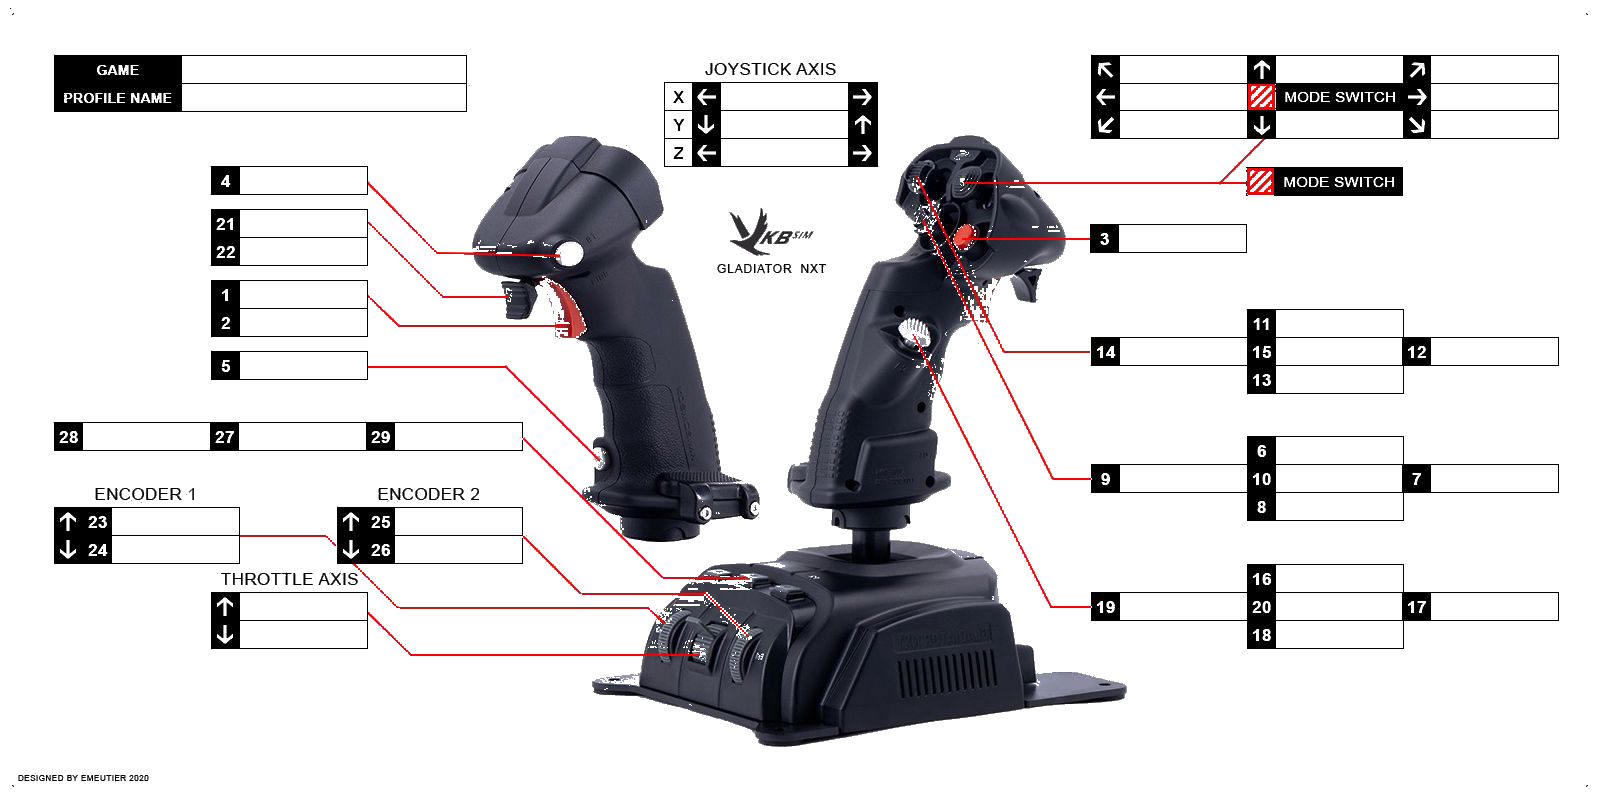
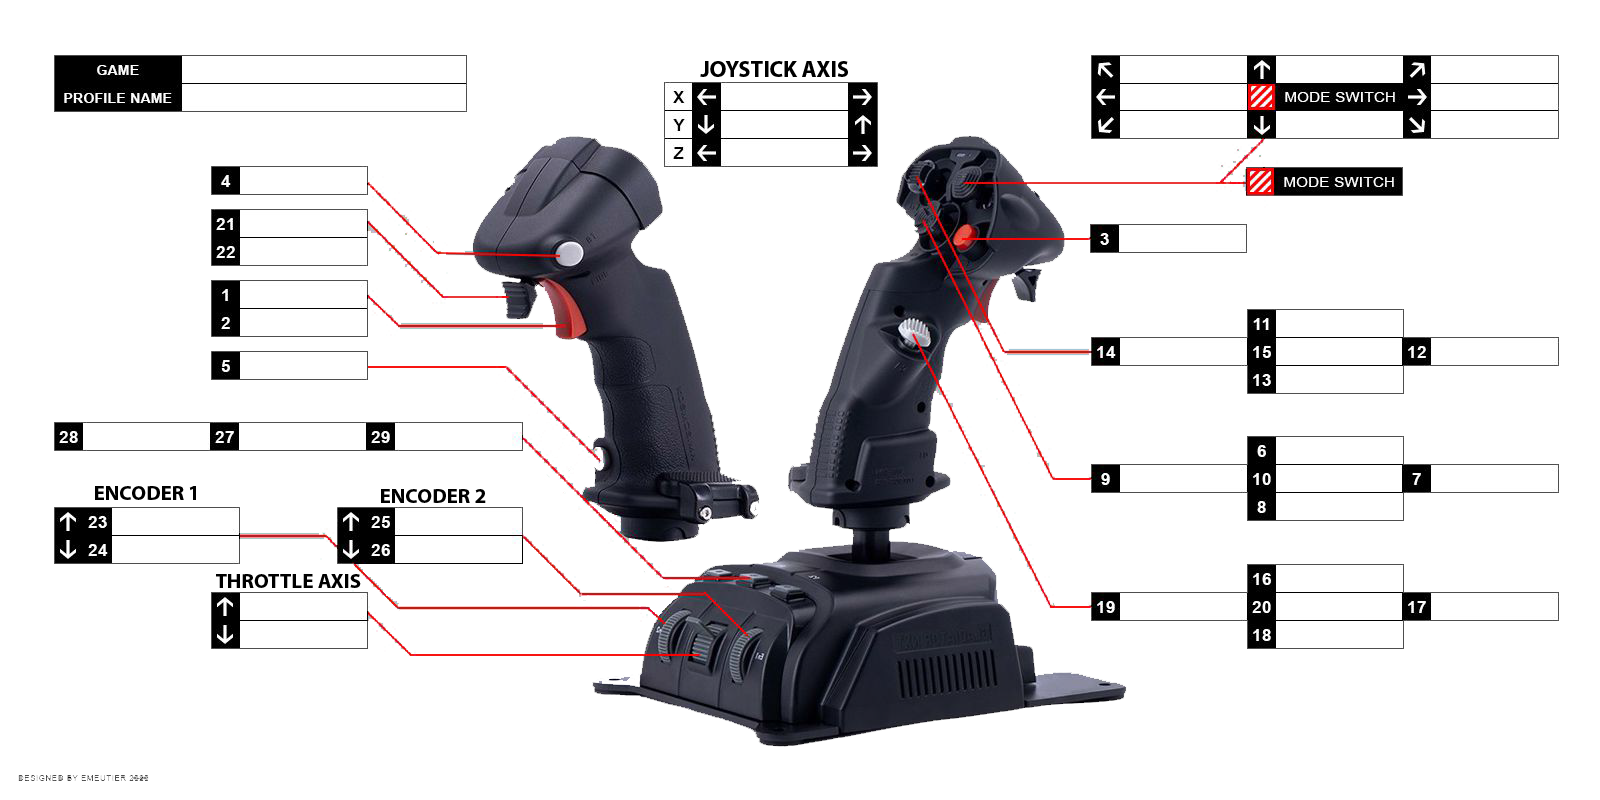
v0.7.20: VKB NXT PREM L+R — neue Template-Bilder + Feldpositionen neu kalibriert

diff --git a/index.html b/index.html
@@ -806,7 +806,7 @@
 <div id="statusbar">STATUS: <span id="statmsg">Bereit</span> &nbsp;|&nbsp; Geändert: <span id="changed-count">0</span> &nbsp;|&nbsp; Version: <span id="app-version"></span> &nbsp;|&nbsp; Update: <span id="update-status">prüfen...</span></div>
 
 <script>
-const APP_VERSION = 'v0.7.19';
+const APP_VERSION = 'v0.7.20';
 const UPDATE_API_URL = 'https://api.github.com/repos/Xharig-1/Joystick-Map/releases/latest';
 const SC_VERSION_API_URL = 'https://api.star-citizen.wiki/api/v2/game-versions';
 const MODES = [
@@ -898,110 +898,110 @@ const FIELDS_L = [{"name":"Titel","value":"Constellation Alpha L","left":109.7,"
 const FIELDS_R = [{"name":"Titel","value":"Constellation Alpha R","left":109.7,"top":22.13,"width":169.4,"height":33.6},{"name":"Untertitel","value":"Star Citizen","left":109.7,"top":55.73,"width":169.4,"height":19.2},{"name":"12","value":"Lead/Lag PIPs","left":361.8,"top":38.5,"width":142,"height":24.2},{"name":"13","value":"Bergung: Structural","left":536.8,"top":72.9,"width":142,"height":24.2},{"name":"5","value":"Bombenabwurf (halten)","left":236.8,"top":89.6,"width":142,"height":24},{"name":"14","value":"Bergung: Auflösen","left":536.8,"top":98,"width":142,"height":24.2},{"name":"rX","value":"","left":236.8,"top":114.7,"width":142,"height":24},{"name":"15","value":"Bergbau: Abwerfen\nBergung: Rechts","left":536.8,"top":123.2,"width":142,"height":24.2},{"name":"rY","value":"","left":236.8,"top":139.7,"width":142,"height":24.2},{"name":"16","value":"Bergung: Zerbrechen","left":536.8,"top":148.4,"width":142,"height":24.2},{"name":"17","value":"Bergung: Links","left":536.8,"top":173.5,"width":142,"height":24.2},{"name":"7","value":"QID festlegen","left":133,"top":177.7,"width":142,"height":24.2},{"name":"8","value":"Q-Snare QIDS","left":133,"top":202.8,"width":142,"height":24.2},{"name":"18","value":"Radar Flare","left":583.2,"top":207.7,"width":142,"height":24.2},{"name":"9","value":"Bergung: Structural","left":133,"top":228,"width":142,"height":24.2},{"name":"19","value":"IR Flare Panik","left":583.2,"top":232.9,"width":142,"height":24.2},{"name":"10","value":"Q-Störer QEDS","left":133,"top":253.2,"width":142,"height":24.2},{"name":"20","value":"Bergung: Zerbrechen","left":583.2,"top":258,"width":142,"height":24.2},{"name":"11","value":"EMP","left":133,"top":278.4,"width":142,"height":24.2},{"name":"6","value":"","left":558.4,"top":295.5,"width":142,"height":24.2},{"name":"25","value":"Bergbau Laser Typ\nNächster Raketentyp\nRaketentyp wechseln","left":94.6,"top":318.3,"width":142,"height":24.2},{"name":"1","value":"SCM Modus","left":549,"top":332.1,"width":142,"height":24.2},{"name":"26","value":"Raketen erhöhen","left":94.6,"top":343.5,"width":142,"height":24},{"name":"2","value":"NAV Modus","left":549,"top":357.3,"width":142,"height":24.2},{"name":"27","value":"ADS max. Zoom (halten)\nADS (Toggle)","left":94.6,"top":368.6,"width":142,"height":24},{"name":"3","value":"Quantensprung\nQuantenantrieb\nScannen (halten)\nBergbau Laser (halten)\nBergung: Fokus\nSchuss / Primärwaffe\nRakete abfeuern","left":513.7,"top":392.6,"width":142,"height":24.2},{"name":"28","value":"Raketen verringern","left":94.6,"top":393.6,"width":142,"height":24.2},{"name":"4","value":"Quantensprung\nQuantenantrieb\nScannen (halten)\nBergbau Laser (halten)\nBergung: Fokus\nSchuss / Primärwaffe\nRakete abfeuern","left":513.7,"top":417.8,"width":142,"height":24.2},{"name":"29","value":"Raketen zurücksetzen","left":94.6,"top":418.7,"width":142,"height":24.2},{"name":"21","value":"Scan Modus","left":131.5,"top":459.4,"width":142,"height":24},{"name":"30","value":"","left":513.7,"top":462.6,"width":142,"height":24.2},{"name":"22","value":"Scan Fokus -\nBergung Schmaler\nKonvergenz -\nBombenreichweite -","left":131.5,"top":484.6,"width":142,"height":24},{"name":"x","value":"","left":471.4,"top":504.2,"width":142,"height":24.2},{"name":"23","value":"Scan Fokus -\nBergung Schmaler\nKonvergenz -\nBombenreichweite -","left":131.5,"top":509.5,"width":142,"height":23.7},{"name":"Y","value":"","left":471.4,"top":529.4,"width":142,"height":24},{"name":"24","value":"Scan Fokus +\nBergung Breiter\nKonvergenz +\nBombenreichweite +","left":131.5,"top":534,"width":142,"height":24.2},{"name":"Z","value":"","left":471.4,"top":554.3,"width":142,"height":24.2},{"name":"31 S0","value":"Schleudersitz\nSelbstzerstörung","left":256.7,"top":569.5,"width":142,"height":24.2},{"name":"Anmerkung 1","value":"","left":688.3,"top":26.73,"width":140.9,"height":74.4},{"name":"Anmerkung 2","value":"","left":689.25,"top":108.33,"width":140.65,"height":74.4},{"name":"Anmerkung 3","value":"","left":682.3,"top":422.73,"width":140.65,"height":74.4},{"name":"Anmerkung 4","value":"","left":683.75,"top":503.58,"width":140.9,"height":74.4}];
 const FIELDS_VKB_NXT_L = [
   // 8-Wege Hat / Mode Switch (oben rechts im Bild)
-  {"name":"hat1_upleft",   "value":"","left":1120,"top":56, "width":127,"height":27},
-  {"name":"hat1_up",       "value":"","left":1276,"top":56, "width":127,"height":27},
-  {"name":"hat1_upright",  "value":"","left":1431,"top":56, "width":127,"height":27},
-  {"name":"hat1_left",     "value":"","left":1120,"top":84, "width":127,"height":26},
-  {"name":"hat1_right",    "value":"","left":1431,"top":84, "width":127,"height":26},
-  {"name":"hat1_downleft", "value":"","left":1120,"top":111,"width":127,"height":27},
-  {"name":"hat1_down",     "value":"","left":1276,"top":111,"width":127,"height":27},
-  {"name":"hat1_downright","value":"","left":1431,"top":111,"width":127,"height":27},
+  {"name":"hat1_upleft",   "value":"","left":1120,"top":56, "width":126,"height":26},
+  {"name":"hat1_up",       "value":"","left":1276,"top":56, "width":126,"height":26},
+  {"name":"hat1_upright",  "value":"","left":1431,"top":56, "width":126,"height":26},
+  {"name":"hat1_left",     "value":"","left":1120,"top":84, "width":126,"height":25},
+  {"name":"hat1_right",    "value":"","left":1431,"top":84, "width":126,"height":25},
+  {"name":"hat1_downleft", "value":"","left":1120,"top":111,"width":126,"height":26},
+  {"name":"hat1_down",     "value":"","left":1276,"top":111,"width":126,"height":26},
+  {"name":"hat1_downright","value":"","left":1431,"top":111,"width":126,"height":26},
   // Joystick-Achsen (Mitte oben)
-  {"name":"x",  "value":"","left":722,"top":83, "width":126,"height":27},
-  {"name":"y",  "value":"","left":721,"top":111,"width":127,"height":27},
-  {"name":"z",  "value":"","left":727,"top":139,"width":121,"height":27},
+  {"name":"x",  "value":"","left":721,"top":83, "width":126,"height":26},
+  {"name":"y",  "value":"","left":721,"top":111,"width":126,"height":26},
+  {"name":"z",  "value":"","left":721,"top":139,"width":126,"height":26},
   // Linke Spalte (Buttons 1, 2, 4, 5, 21, 22, 27, 28, 29)
-  {"name":"4",  "value":"","left":240,"top":167,"width":127,"height":27},
-  {"name":"21", "value":"","left":240,"top":210,"width":126,"height":27},
-  {"name":"22", "value":"","left":240,"top":238,"width":127,"height":27},
-  {"name":"1",  "value":"","left":240,"top":281,"width":126,"height":27},
-  {"name":"2",  "value":"","left":240,"top":309,"width":127,"height":27},
-  {"name":"5",  "value":"","left":240,"top":352,"width":127,"height":27},
-  {"name":"28", "value":"","left":83, "top":423,"width":127,"height":27},
-  {"name":"27", "value":"","left":239,"top":423,"width":127,"height":27},
-  {"name":"29", "value":"","left":395,"top":423,"width":126,"height":27},
+  {"name":"4",  "value":"","left":240,"top":167,"width":126,"height":26},
+  {"name":"21", "value":"","left":240,"top":210,"width":126,"height":26},
+  {"name":"22", "value":"","left":240,"top":238,"width":126,"height":26},
+  {"name":"1",  "value":"","left":240,"top":281,"width":126,"height":26},
+  {"name":"2",  "value":"","left":240,"top":309,"width":126,"height":26},
+  {"name":"5",  "value":"","left":240,"top":352,"width":126,"height":26},
+  {"name":"28", "value":"","left":83, "top":423,"width":126,"height":26},
+  {"name":"27", "value":"","left":239,"top":423,"width":126,"height":26},
+  {"name":"29", "value":"","left":395,"top":423,"width":126,"height":26},
   // Encoder-Buttons
-  {"name":"23", "value":"","left":112,"top":508,"width":127,"height":27},
-  {"name":"24", "value":"","left":112,"top":536,"width":127,"height":27},
-  {"name":"25", "value":"","left":399,"top":508,"width":122,"height":27},
-  {"name":"26", "value":"","left":395,"top":536,"width":125,"height":27},
+  {"name":"23", "value":"","left":112,"top":508,"width":126,"height":26},
+  {"name":"24", "value":"","left":112,"top":536,"width":126,"height":26},
+  {"name":"25", "value":"","left":395,"top":508,"width":126,"height":26},
+  {"name":"26", "value":"","left":395,"top":536,"width":126,"height":26},
   // Drosselachse (links unten)
-  {"name":"throttle_fwd",  "value":"","left":240,"top":593,"width":126,"height":27},
-  {"name":"throttle_back", "value":"","left":240,"top":621,"width":127,"height":27},
+  {"name":"throttle_fwd",  "value":"","left":240,"top":593,"width":126,"height":26},
+  {"name":"throttle_back", "value":"","left":240,"top":621,"width":126,"height":26},
   // Rechte Seite - Button 3
-  {"name":"3",  "value":"","left":1119,"top":225,"width":126,"height":27},
+  {"name":"3",  "value":"","left":1119,"top":225,"width":126,"height":26},
   // Rechte Seite - 5-Wege-Ministick 1 (Buttons 11-15)
-  {"name":"15", "value":"","left":1277,"top":310,"width":126,"height":27},
-  {"name":"14", "value":"","left":1120,"top":338,"width":127,"height":27},
-  {"name":"11", "value":"","left":1276,"top":338,"width":125,"height":27},
-  {"name":"12", "value":"","left":1431,"top":338,"width":127,"height":27},
-  {"name":"13", "value":"","left":1276,"top":366,"width":127,"height":27},
+  {"name":"15", "value":"","left":1276,"top":310,"width":126,"height":26},
+  {"name":"14", "value":"","left":1120,"top":338,"width":126,"height":26},
+  {"name":"11", "value":"","left":1276,"top":338,"width":125,"height":26},
+  {"name":"12", "value":"","left":1431,"top":338,"width":126,"height":26},
+  {"name":"13", "value":"","left":1276,"top":366,"width":126,"height":26},
   // Rechte Seite - 5-Wege-Ministick 2 (Buttons 6-10)
-  {"name":"6",  "value":"","left":1276,"top":437,"width":127,"height":27},
-  {"name":"9",  "value":"","left":1120,"top":465,"width":126,"height":27},
-  {"name":"10", "value":"","left":1276,"top":465,"width":126,"height":27},
-  {"name":"7",  "value":"","left":1431,"top":465,"width":126,"height":27},
-  {"name":"8",  "value":"","left":1276,"top":493,"width":127,"height":27},
+  {"name":"6",  "value":"","left":1276,"top":437,"width":126,"height":26},
+  {"name":"9",  "value":"","left":1120,"top":465,"width":126,"height":26},
+  {"name":"10", "value":"","left":1276,"top":465,"width":125,"height":26},
+  {"name":"7",  "value":"","left":1431,"top":465,"width":126,"height":26},
+  {"name":"8",  "value":"","left":1276,"top":493,"width":126,"height":26},
   // Rechte Seite - 5-Wege-Ministick 3 (Buttons 16-20)
-  {"name":"16", "value":"","left":1276,"top":565,"width":127,"height":27},
-  {"name":"19", "value":"","left":1120,"top":593,"width":126,"height":27},
-  {"name":"20", "value":"","left":1276,"top":593,"width":126,"height":27},
-  {"name":"17", "value":"","left":1431,"top":593,"width":126,"height":27},
-  {"name":"18", "value":"","left":1276,"top":621,"width":127,"height":27}
+  {"name":"16", "value":"","left":1276,"top":565,"width":126,"height":26},
+  {"name":"19", "value":"","left":1120,"top":593,"width":126,"height":26},
+  {"name":"20", "value":"","left":1276,"top":593,"width":125,"height":26},
+  {"name":"17", "value":"","left":1431,"top":593,"width":126,"height":26},
+  {"name":"18", "value":"","left":1276,"top":621,"width":126,"height":26}
 ];
 const FIELDS_VKB_NXT_R = [
   // Hat / Mode Switch (oben links)
-  {"name":"hat1_upleft",   "value":"","left":70,  "top":56, "width":127,"height":27},
-  {"name":"hat1_up",       "value":"","left":226, "top":56, "width":127,"height":27},
-  {"name":"hat1_upright",  "value":"","left":381, "top":56, "width":127,"height":27},
-  {"name":"hat1_left",     "value":"","left":70,  "top":84, "width":127,"height":26},
-  {"name":"hat1_right",    "value":"","left":381, "top":84, "width":127,"height":26},
-  {"name":"hat1_downleft", "value":"","left":70,  "top":111,"width":127,"height":27},
-  {"name":"hat1_down",     "value":"","left":226, "top":111,"width":127,"height":27},
-  {"name":"hat1_downright","value":"","left":381, "top":111,"width":127,"height":27},
+  {"name":"hat1_upleft",   "value":"","left":70,  "top":56, "width":126,"height":26},
+  {"name":"hat1_up",       "value":"","left":226, "top":56, "width":126,"height":26},
+  {"name":"hat1_upright",  "value":"","left":381, "top":56, "width":126,"height":26},
+  {"name":"hat1_left",     "value":"","left":70,  "top":84, "width":126,"height":25},
+  {"name":"hat1_right",    "value":"","left":381, "top":84, "width":126,"height":25},
+  {"name":"hat1_downleft", "value":"","left":70,  "top":111,"width":126,"height":26},
+  {"name":"hat1_down",     "value":"","left":226, "top":111,"width":126,"height":26},
+  {"name":"hat1_downright","value":"","left":381, "top":111,"width":126,"height":26},
   // Joystick-Achsen (Mitte oben)
-  {"name":"x",  "value":"","left":779,"top":83, "width":127,"height":27},
-  {"name":"y",  "value":"","left":779,"top":111,"width":127,"height":27},
-  {"name":"z",  "value":"","left":779,"top":139,"width":127,"height":27},
+  {"name":"x",  "value":"","left":779,"top":83, "width":126,"height":26},
+  {"name":"y",  "value":"","left":779,"top":111,"width":126,"height":26},
+  {"name":"z",  "value":"","left":779,"top":139,"width":126,"height":26},
   // Button 3
-  {"name":"3",  "value":"","left":382,"top":225,"width":127,"height":27},
+  {"name":"3",  "value":"","left":382,"top":225,"width":126,"height":26},
   // 5-Wege-Ministick 1 (Buttons 11–15)
-  {"name":"15", "value":"","left":226,"top":310,"width":127,"height":27},
-  {"name":"14", "value":"","left":70, "top":338,"width":127,"height":27},
-  {"name":"11", "value":"","left":226,"top":338,"width":126,"height":27},
-  {"name":"12", "value":"","left":381,"top":338,"width":127,"height":27},
-  {"name":"13", "value":"","left":226,"top":366,"width":127,"height":27},
+  {"name":"15", "value":"","left":226,"top":310,"width":126,"height":26},
+  {"name":"14", "value":"","left":70, "top":338,"width":126,"height":26},
+  {"name":"11", "value":"","left":226,"top":338,"width":125,"height":26},
+  {"name":"12", "value":"","left":381,"top":338,"width":126,"height":26},
+  {"name":"13", "value":"","left":226,"top":366,"width":126,"height":26},
   // 5-Wege-Ministick 2 (Buttons 6–10)
-  {"name":"6",  "value":"","left":226,"top":437,"width":127,"height":27},
-  {"name":"9",  "value":"","left":70, "top":465,"width":127,"height":27},
-  {"name":"10", "value":"","left":226,"top":465,"width":126,"height":27},
-  {"name":"7",  "value":"","left":381,"top":465,"width":127,"height":27},
-  {"name":"8",  "value":"","left":226,"top":493,"width":127,"height":27},
+  {"name":"6",  "value":"","left":226,"top":437,"width":126,"height":26},
+  {"name":"9",  "value":"","left":70, "top":465,"width":126,"height":26},
+  {"name":"10", "value":"","left":226,"top":465,"width":125,"height":26},
+  {"name":"7",  "value":"","left":381,"top":465,"width":126,"height":26},
+  {"name":"8",  "value":"","left":226,"top":493,"width":126,"height":26},
   // 5-Wege-Ministick 3 (Buttons 16–20)
-  {"name":"16", "value":"","left":226,"top":565,"width":127,"height":27},
-  {"name":"19", "value":"","left":70, "top":593,"width":127,"height":27},
-  {"name":"20", "value":"","left":226,"top":593,"width":126,"height":27},
-  {"name":"17", "value":"","left":381,"top":593,"width":127,"height":27},
-  {"name":"18", "value":"","left":226,"top":621,"width":127,"height":27},
+  {"name":"16", "value":"","left":226,"top":565,"width":126,"height":26},
+  {"name":"19", "value":"","left":70, "top":593,"width":126,"height":26},
+  {"name":"20", "value":"","left":226,"top":593,"width":125,"height":26},
+  {"name":"17", "value":"","left":381,"top":593,"width":126,"height":26},
+  {"name":"18", "value":"","left":226,"top":621,"width":126,"height":26},
   // Rechte Spalte (Buttons 1, 2, 4, 5, 21, 22)
-  {"name":"4",  "value":"","left":1261,"top":167,"width":127,"height":27},
-  {"name":"21", "value":"","left":1261,"top":210,"width":127,"height":27},
-  {"name":"22", "value":"","left":1261,"top":238,"width":127,"height":27},
-  {"name":"1",  "value":"","left":1261,"top":281,"width":127,"height":27},
-  {"name":"2",  "value":"","left":1261,"top":309,"width":127,"height":27},
-  {"name":"5",  "value":"","left":1261,"top":352,"width":127,"height":27},
+  {"name":"4",  "value":"","left":1261,"top":167,"width":126,"height":26},
+  {"name":"21", "value":"","left":1261,"top":210,"width":126,"height":26},
+  {"name":"22", "value":"","left":1261,"top":238,"width":126,"height":26},
+  {"name":"1",  "value":"","left":1261,"top":281,"width":126,"height":26},
+  {"name":"2",  "value":"","left":1261,"top":309,"width":126,"height":26},
+  {"name":"5",  "value":"","left":1261,"top":352,"width":126,"height":26},
   // Zeile (Buttons 27, 28, 29)
-  {"name":"28", "value":"","left":1106,"top":423,"width":127,"height":27},
-  {"name":"27", "value":"","left":1262,"top":423,"width":127,"height":27},
-  {"name":"29", "value":"","left":1418,"top":423,"width":127,"height":27},
+  {"name":"28", "value":"","left":1106,"top":423,"width":126,"height":26},
+  {"name":"27", "value":"","left":1262,"top":423,"width":126,"height":26},
+  {"name":"29", "value":"","left":1418,"top":423,"width":126,"height":26},
   // Encoder-Buttons
-  {"name":"23", "value":"","left":1135,"top":508,"width":127,"height":27},
-  {"name":"24", "value":"","left":1135,"top":536,"width":127,"height":27},
-  {"name":"25", "value":"","left":1418,"top":508,"width":127,"height":27},
-  {"name":"26", "value":"","left":1418,"top":536,"width":127,"height":27},
+  {"name":"23", "value":"","left":1135,"top":508,"width":126,"height":26},
+  {"name":"24", "value":"","left":1135,"top":536,"width":126,"height":26},
+  {"name":"25", "value":"","left":1418,"top":508,"width":126,"height":26},
+  {"name":"26", "value":"","left":1418,"top":536,"width":126,"height":26},
   // Drosselachse (rechts unten)
-  {"name":"throttle_fwd",  "value":"","left":1261,"top":593,"width":127,"height":27},
-  {"name":"throttle_back", "value":"","left":1261,"top":621,"width":127,"height":27}
+  {"name":"throttle_fwd",  "value":"","left":1261,"top":593,"width":126,"height":26},
+  {"name":"throttle_back", "value":"","left":1261,"top":621,"width":126,"height":26}
 ];
 const STICKS = {
   'virpil-alpha': {

diff --git a/ROADMAP.md b/ROADMAP.md
@@ -1,6 +1,6 @@
 # Roadmap
 
-Aktuelle Version: `v0.7.19`
+Aktuelle Version: `v0.7.20`
 
 ## Zielbild
 
@@ -94,3 +94,4 @@ Aktueller Fokus: öffentliche Tests, Feedback sammeln und weitere Stick-Vorlagen
 | v0.7.17 | Kalibrieren: Drag-Fläche + Clipboard-Copy; Hilfe-Tab dokumentiert ✓ |
 | v0.7.18 | Virpil Alpha L+R: Template-Bilder ersetzt (clean, 2× Auflösung) ✓ |
 | v0.7.19 | Virpil Alpha L+R: Feldpositionen neu kalibriert (jimp-Auto-Erkennung); SC_BUTTON_IDS 1:1 (kein Remapping) ✓ |
+| v0.7.20 | VKB NXT PREM L+R: Template-Bilder ersetzt (neue cleane 1600×800 Vorlagen); Feldpositionen neu kalibriert ✓ |

diff --git a/CHANGELOG.md b/CHANGELOG.md
@@ -4,6 +4,13 @@ Alle wichtigen Änderungen an diesem Projekt werden hier dokumentiert.
 
 Das Projekt nutzt SemVer: `MAJOR.MINOR.PATCH`.
 
+## v0.7.20 - 2026-05-24
+
+### Geändert
+
+- VKB Gladiator NXT PREM L + R: Template-Bilder ersetzt — neue cleane Vorlagen (1600×800).
+- VKB Gladiator NXT PREM L + R: Feldpositionen (FIELDS_VKB_NXT_L / FIELDS_VKB_NXT_R) per jimp-Auto-Erkennung neu kalibriert auf die neuen Template-Bilder.
+
 ## v0.7.19 - 2026-05-24
 
 ### Geändert
